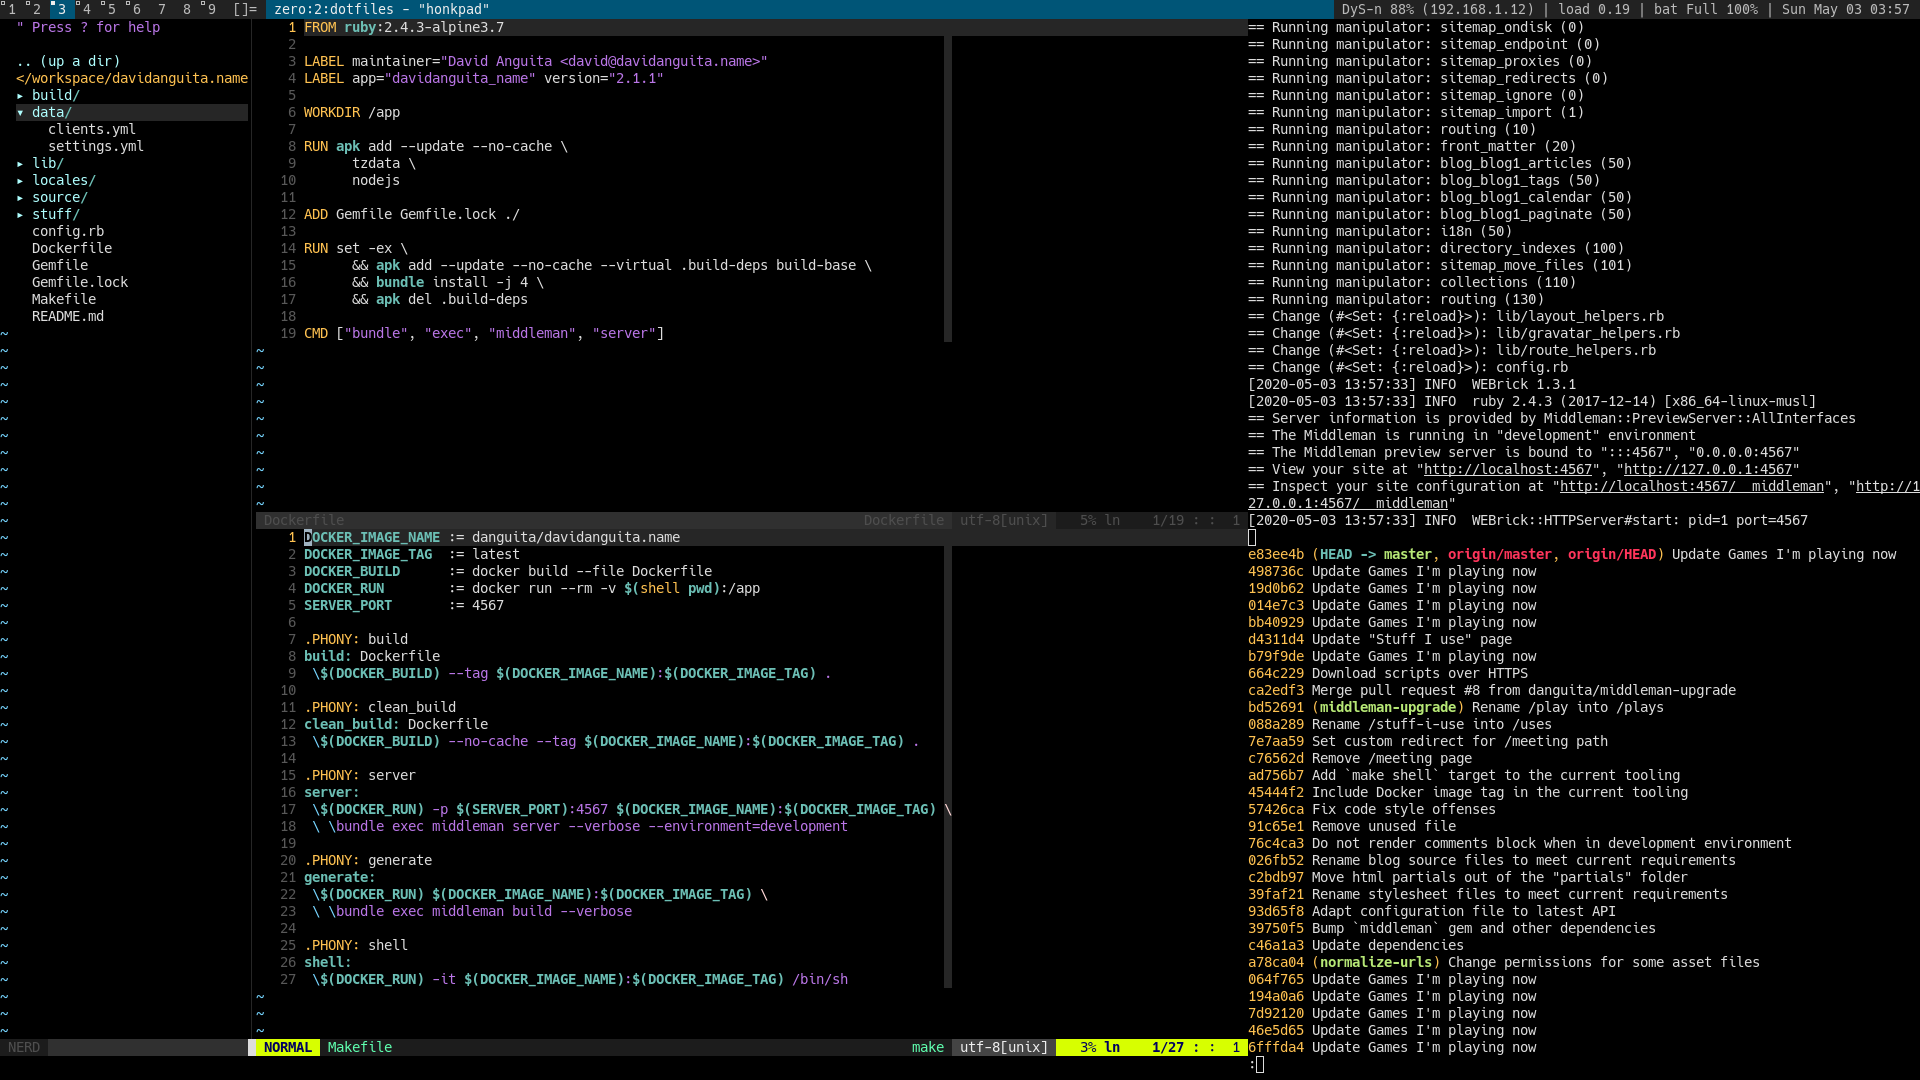
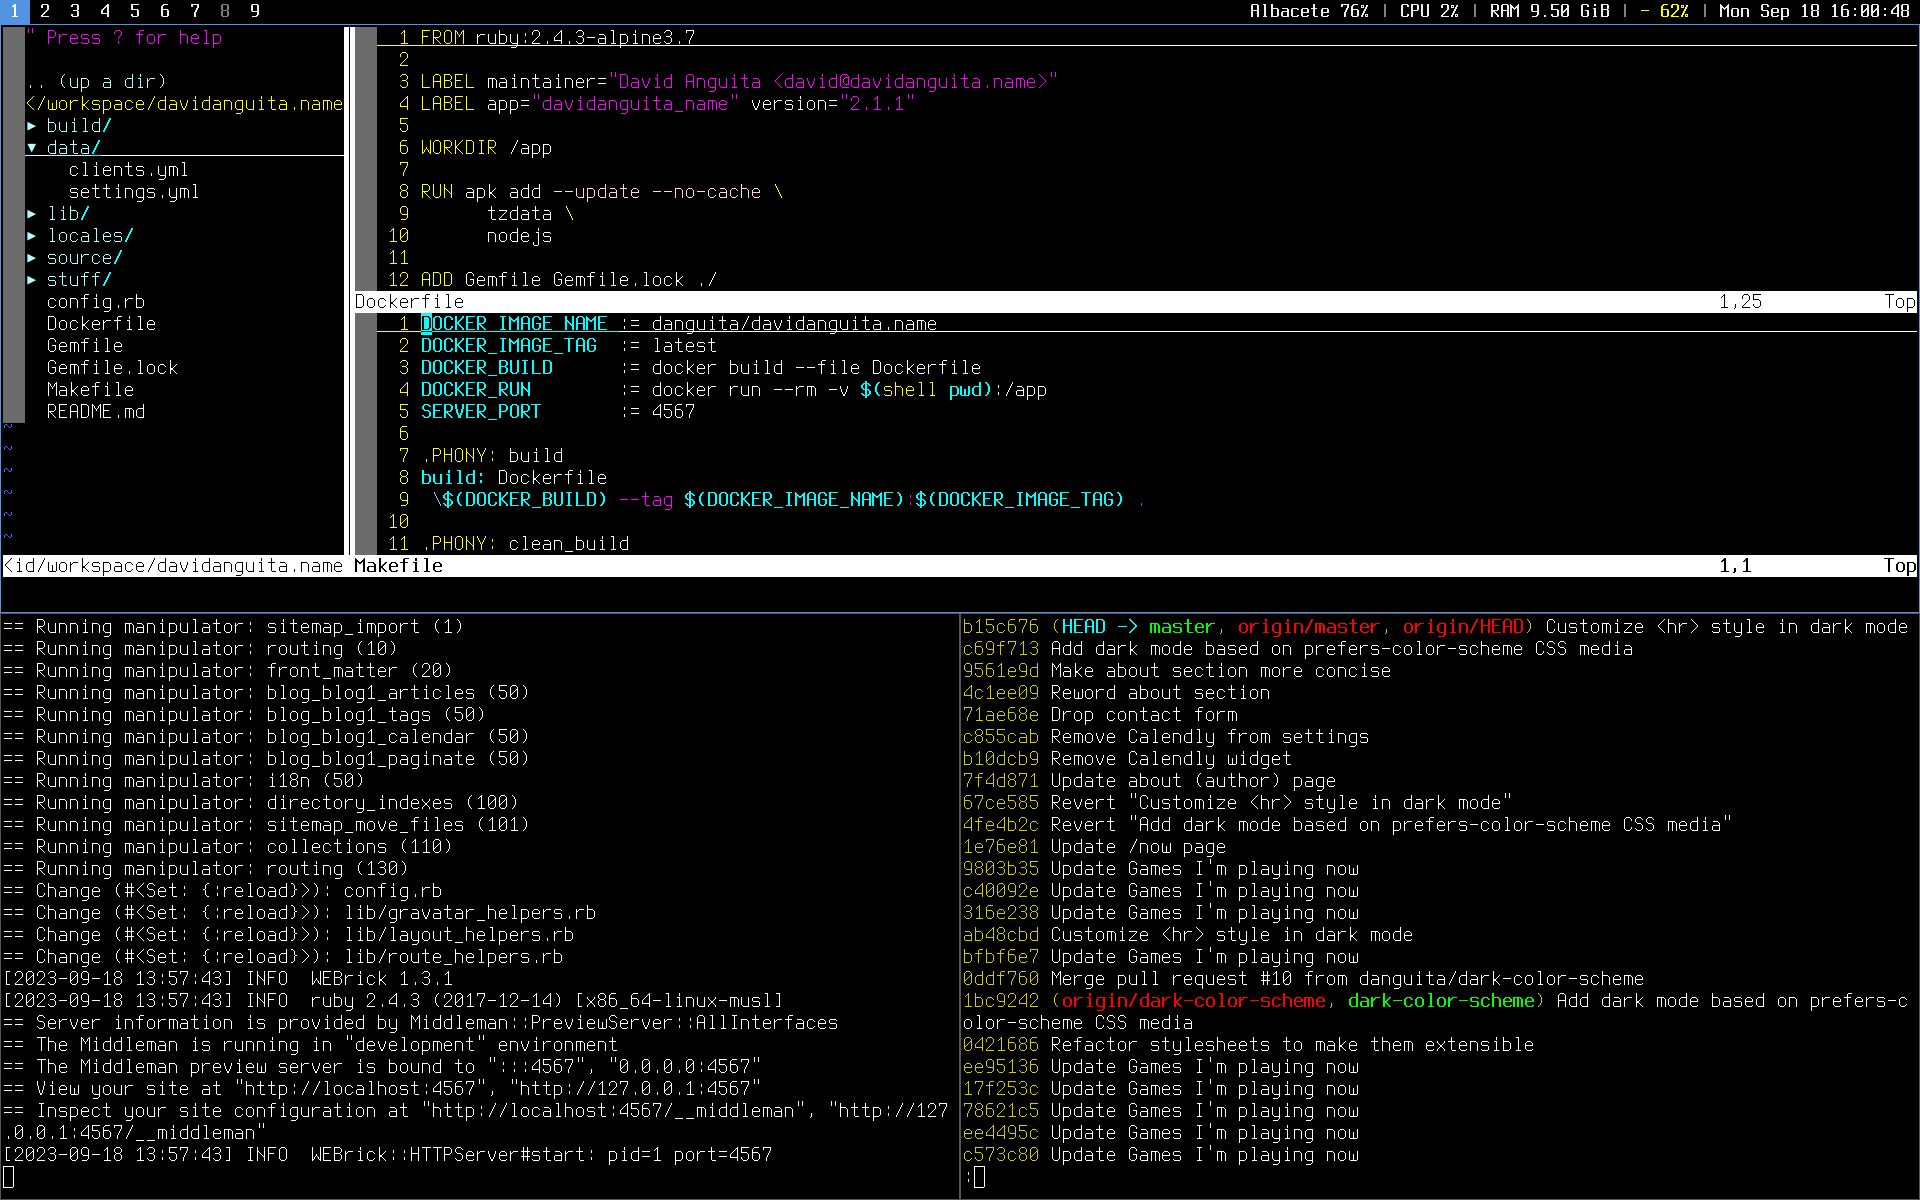
(doc) Update screenshot

Changed region(s): [[0.0, 0.0, 1.0, 0.9778], [0.3438, 0.3972, 0.5938, 0.4278]]

diff --git a/README.md b/README.md
@@ -10,7 +10,7 @@ https://davidanguita.name/articles/the-postmodern-development-environment/
 
 ![Terminal overview](screenshots/terminal-overview.png)
 
-Note: This is rxvt-unicode on dwm.
+Note: This is xterm on cwm.
 
 ## Usage
 
